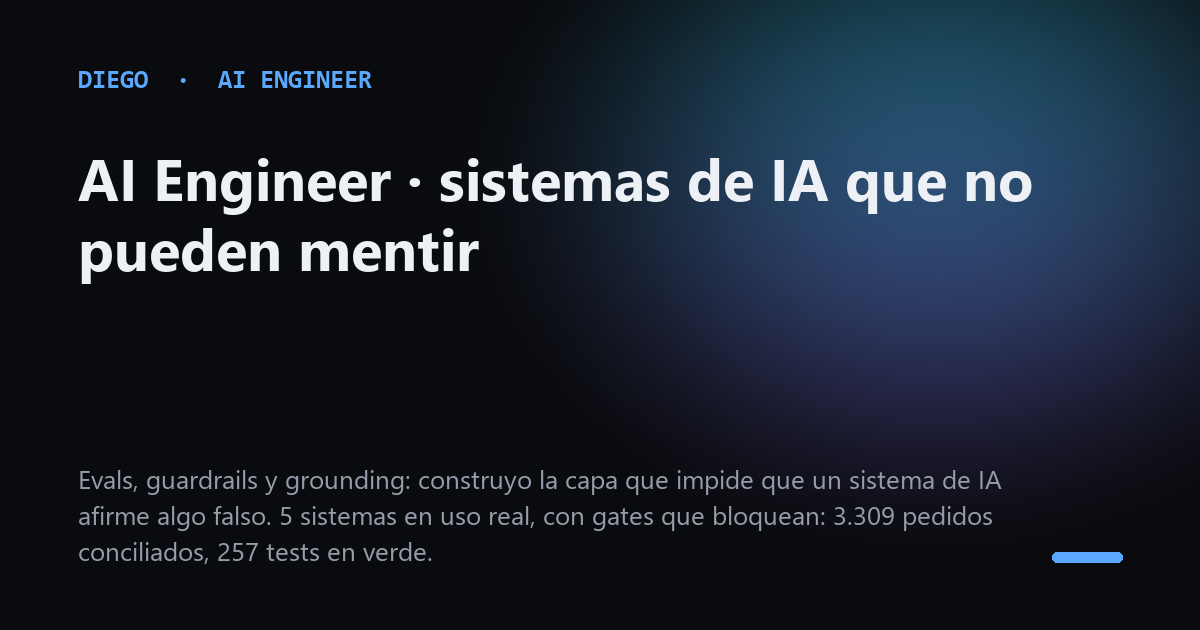
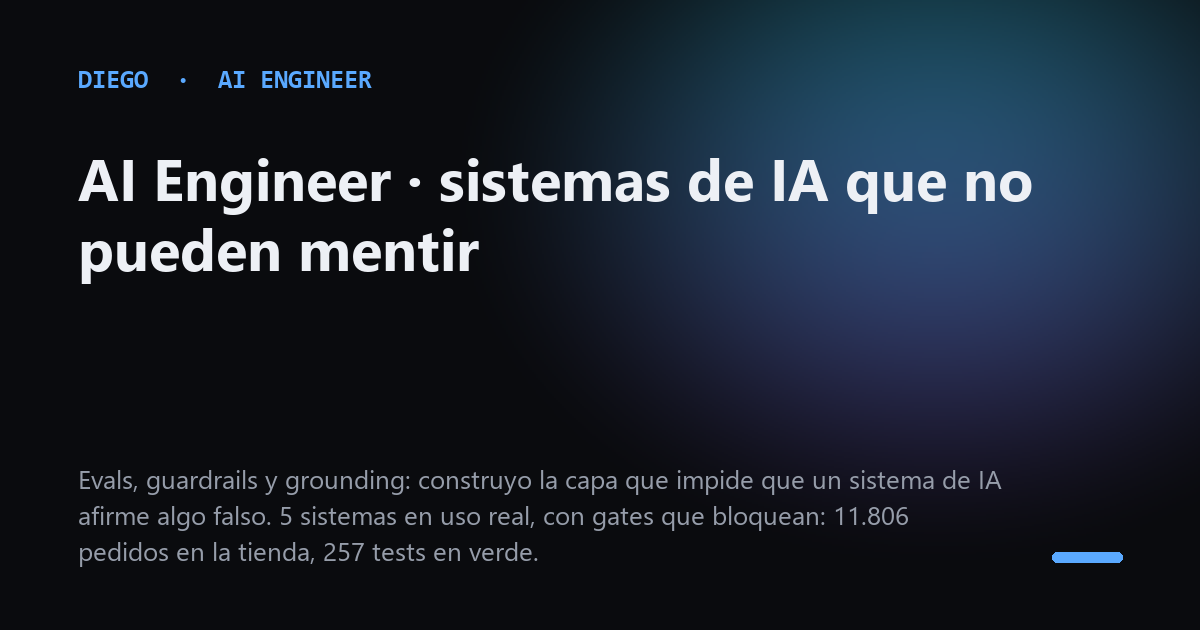
retira el 3.309 sin evidencia, publica 11.806 con captura de Shopify
El `3.309 pedidos conciliados` estaba en el og:description — o sea, era lo
primero que leia un recruiter, antes de abrir la pagina — y en data/claims.md
figuraba como PENDIENTE-DIEGO: "sin rastro en el repo versionado".

Se busco por dos vias independientes y ninguna lo produce: la tabla
`liquidaciones` de data/ecxm.db esta VACIA, y los unicos Excel del disco son
temporales de 3 meses (abril, mayo, junio), no los "6 meses" que la frase decia.

Diego aporto el panel de Shopify de la tienda COD Colombia (1 ene 2025 - 25 ago
2026): Pedidos 11.806 · Ventas netas 1.239.563.133 COP.

NO se sustituye 3.309 por 11.806 en todas partes, a proposito. La unidad que se
verifica es la FRASE ENTERA (truth-loop A.5): 11.806 son pedidos de tienda en 20
meses; 3.309 decia "conciliados" en "6 meses". Son cosas distintas.

  - donde la frase habla de la TIENDA  -> `11.806 pedidos en la tienda`
    (og:description + stat de la tarjeta ECXM)
  - donde habla de la CONCILIACION de ECXM -> la cifra se cae y se queda el
    mecanismo, sin numero: "la utilidad neta conciliada que calcula ECXM sobre
    los pedidos cerrados de cada mes, con gate de igualdad exacta"

Poner 11.806 en el segundo caso habria sido cambiar una cifra sin fuente por una
inflada 3,6x.

Cruce independiente que sostiene el dato (y refuerza las cifras de Meta ya
publicadas): misma tienda, misma ventana, dos sistemas que no se hablan.
  pedidos  Shopify 11.806        vs Meta 10.975 compras   = 93,0%
[…]

Changed region(s): [[0.0617, 0.8444, 0.4625, 0.9048], [0.6783, 0.7841, 0.8325, 0.8444]]

diff --git a/index.html b/index.html
@@ -8,7 +8,7 @@
 <meta name="color-scheme" content="dark">
 <meta name="theme-color" content="#06060a">
 <meta property="og:title" content="Diego · AI Engineer · sistemas de IA que no pueden mentir">
-<meta property="og:description" content="Evals, guardrails y grounding: construyo la capa que impide que un sistema de IA afirme algo falso. 5 sistemas en uso real, con gates que bloquean: 3.309 pedidos conciliados, 257 tests en verde.">
+<meta property="og:description" content="Evals, guardrails y grounding: construyo la capa que impide que un sistema de IA afirme algo falso. 5 sistemas en uso real, con gates que bloquean: 11.806 pedidos en la tienda, 257 tests en verde.">
 <meta property="og:url" content="https://diegotomasllopis.com/">
 <meta property="og:image" content="https://diegotomasllopis.com/assets/og-index.png">
 <meta property="og:image:width" content="1200">
@@ -1313,7 +1313,7 @@ body{overflow:hidden}
       <!-- El "a 13-08" NO es adorno: esta cifra decae a diario (YOUTUBE
            commiteo 7 veces solo hoy) y sin fecha se convierte en falsa
            sola en 48 h. Con fecha es una foto, que es lo que es. -->
-      <div class="stat reveal"><div class="n display grad-text"><span class="ct" data-to="1329"></span></div><div class="l"><span class="t-es">commits en 5 repos a 13-08 · ~5 meses y sin formación previa</span><span class="t-en">commits across 5 repos as of 13-08 · ~5 months, no prior training</span></div></div>
+      <div class="stat reveal"><div class="n display grad-text"><span class="ct" data-to="1424"></span></div><div class="l"><span class="t-es">commits en 5 repos a 25-08 · ~5 meses y sin formación previa</span><span class="t-en">commits across 5 repos as of 25-08 · ~5 months, no prior training</span></div></div>
       <!-- Decia "20 skills propias REUTILIZADAS" y era falso por implicatura:
            solo 4 viven en mas de un repo (run x3, optimize x3, eval x2,
            daily-run x2); las otras 16 estan en uno solo. Un ingeniero lo ve
@@ -1407,7 +1407,7 @@ body{overflow:hidden}
           <span class="t-en">Not Streamlit crashing: it's fluently asserting a false net profit. That figure decides whether a product is a "winner", which shifts the contract split from 50/50 to 40/60. One misattributed decimal is somebody else's pay.</span>
         </div>
         <div class="pj-nums">
-          <span><b>3.309</b> <span class="t-es">pedidos conciliados</span><span class="t-en">orders reconciled</span></span>
+          <span><b>11.806</b> <span class="t-es">pedidos en la tienda</span><span class="t-en">orders in the store</span></span>
           <span><b>6.286</b> <span class="t-es">anuncios indexados</span><span class="t-en">ads indexed</span></span>
           <span><b>3/3</b> <span class="t-es">gates golden en verde</span><span class="t-en">golden gates green</span></span>
         </div>
@@ -1881,8 +1881,8 @@ body{overflow:hidden}
       <div class="pipe"><span>ad testing</span><i>→</i><span>adset testing</span><i>→</i><span>scaling ABO</span><i>→</i><span>scaling ADV</span><i>⊣</i><span class="gate">utilidad neta conciliada</span></div>
       <div class="fail">
         <b><span class="t-es">modo de fallo</span><span class="t-en">failure mode</span></b>
-        <span class="t-es">En COD el ROAS de plataforma <strong>no es el dinero que cobras</strong>: no descuenta la no-entrega ni la devolución. Por eso la cifra con la que decidía no era esta: era la utilidad neta conciliada que calcula ECXM sobre 3.309 pedidos, con gate de igualdad exacta. El número bonito está aquí arriba; el número real pasa por un gate.</span>
-        <span class="t-en">In COD, platform ROAS <strong>isn't the money you collect</strong>: it doesn't net out failed deliveries or returns. So the figure I decided on wasn't this one: it was the reconciled net profit ECXM computes over 3,309 orders, behind an exact-equality gate. The pretty number is up here; the real one goes through a gate.</span>
+        <span class="t-es">En COD el ROAS de plataforma <strong>no es el dinero que cobras</strong>: no descuenta la no-entrega ni la devolución. Por eso la cifra con la que decidía no era esta: era la utilidad neta conciliada que calcula ECXM sobre los pedidos cerrados de cada mes, con gate de igualdad exacta. El número bonito está aquí arriba; el número real pasa por un gate.</span>
+        <span class="t-en">In COD, platform ROAS <strong>isn't the money you collect</strong>: it doesn't net out failed deliveries or returns. So the figure I decided on wasn't this one: it was the reconciled net profit ECXM computes over each month's closed orders, behind an exact-equality gate. The pretty number is up here; the real one goes through a gate.</span>
       </div>
       <div class="pj-nums">
         <span><b>~37.500 €</b> <span class="t-es">gestionados en 15 meses</span><span class="t-en">managed over 15 months</span></span>
@@ -2849,7 +2849,7 @@ var SC=document.getElementById('twBody');
   var LINES=[
     ['booting portfolio.diego · v2 · 13-08', 40],
     ['load  identity ................. <span class="ok">ok</span>', 260],
-    ['mount 5 repos · 1329 commits ... <span class="ok">ok</span>', 200],
+    ['mount 5 repos · 1424 commits ... <span class="ok">ok</span>', 200],
     /* Estas dos dicen lo mismo que decian, con el verbo delante del
        numero. "109 incidents" a secas se lee como 109 fallos mios; lo
        que prueban es que los 109 estan REGISTRADOS, que es justo lo

diff --git a/YOUTUBE-PIPELINE/YOUTUBE-PIPELINE.html b/YOUTUBE-PIPELINE/YOUTUBE-PIPELINE.html
@@ -75,6 +75,14 @@ html.lang-en .t-es{display:none!important}
   font-family:'JetBrains Mono',monospace;color:var(--hl)}
 .eyebrow .grad-text{font-weight:600}
 .eyebrow::before{content:'';width:26px;height:1px;background:var(--grad);opacity:.9}
+/* ── url del repo publico en el hero: la prueba mas barata que existe, porque
+   el lector la puede abrir y contrastar. Solo en las 2 paginas con repo abierto. ── */
+.hero-repo{display:inline-flex;align-items:center;gap:7px;margin-top:14px;font-family:'JetBrains Mono';
+  font-size:.76rem;color:var(--g2);text-decoration:none;border-bottom:1px solid transparent;
+  transition:color .18s,border-color .18s;min-height:44px}
+.hero-repo:hover,.hero-repo:focus-visible{color:var(--text);border-bottom-color:var(--g2)}
+.hero-repo svg{width:12px;height:12px;flex:0 0 auto}
+@media(max-width:560px){.hero-repo{font-size:.7rem;overflow-wrap:anywhere}}
 
 /* ── ambient layers: aurora + grain ── */
 .aurora{position:fixed;inset:-20% -10% auto -10%;height:120vh;z-index:-2;pointer-events:none;filter:blur(70px);opacity:.5}
@@ -859,6 +867,8 @@ body{overflow:hidden}
   <!-- hero -->
   <header class="hero">
     <div class="eyebrow"><span class="t-es">AI Engineer · media pipeline · Python + FFmpeg + LLM</span><span class="t-en">AI Engineer · media pipeline · Python + FFmpeg + LLM</span></div>
+
+    <a class="hero-repo" href="https://github.com/diegollr98-design/video-pipeline" target="_blank" rel="noopener">github.com/diegollr98-design/video-pipeline<svg viewBox="0 0 24 24" fill="none" stroke="currentColor" stroke-width="2.4"><path d="M7 17 17 7M9 7h8v8"/></svg></a>
 
     <h1 class="t-es display">Automaticé un canal entero. Lo difícil fue construir lo que impide que <span class="grad-text">publique basura</span>.</h1>
     <h1 class="t-en display">I automated a whole channel. The hard part was building what stops it from <span class="grad-text">shipping garbage</span>.</h1>

diff --git a/RESELLERMASTER/RESELLERMASTER.html b/RESELLERMASTER/RESELLERMASTER.html
@@ -73,6 +73,14 @@ html.lang-en .t-es{display:none!important}
   font-family:'JetBrains Mono',monospace;color:var(--hl)}
 .eyebrow .grad-text{font-weight:600}
 .eyebrow::before{content:'';width:26px;height:1px;background:var(--grad);opacity:.9}
+/* ── url del repo publico en el hero: la prueba mas barata que existe, porque
+   el lector la puede abrir y contrastar. Solo en las 2 paginas con repo abierto. ── */
+.hero-repo{display:inline-flex;align-items:center;gap:7px;margin-top:14px;font-family:'JetBrains Mono';
+  font-size:.76rem;color:var(--g2);text-decoration:none;border-bottom:1px solid transparent;
+  transition:color .18s,border-color .18s;min-height:44px}
+.hero-repo:hover,.hero-repo:focus-visible{color:var(--text);border-bottom-color:var(--g2)}
+.hero-repo svg{width:12px;height:12px;flex:0 0 auto}
+@media(max-width:560px){.hero-repo{font-size:.7rem;overflow-wrap:anywhere}}
 
 /* ── ambient layers: aurora + grain ── */
 .aurora{position:fixed;inset:-20% -10% auto -10%;height:120vh;z-index:-2;pointer-events:none;filter:blur(70px);opacity:.5}
@@ -797,6 +805,8 @@ body{overflow:hidden}
   <!-- hero -->
   <header class="hero">
     <div class="eyebrow"><span class="t-es">AI Engineer · visión + LLM · reventa de segunda mano</span><span class="t-en">AI Engineer · vision + LLM · second-hand reselling</span></div>
+
+    <a class="hero-repo" href="https://github.com/diegollr98-design/resellermaster" target="_blank" rel="noopener">github.com/diegollr98-design/resellermaster<svg viewBox="0 0 24 24" fill="none" stroke="currentColor" stroke-width="2.4"><path d="M7 17 17 7M9 7h8v8"/></svg></a>
 
     <h1 class="t-es display">Construí el <span class="grad-text">sistema</span> que impide a una IA mentir sobre un producto.</h1>
     <h1 class="t-en display">I built the <span class="grad-text">system</span> that stops an AI from lying about a product.</h1>

diff --git a/ecxm-ops/ECXM-OPS.html b/ecxm-ops/ECXM-OPS.html
@@ -1601,10 +1601,10 @@ document.querySelectorAll('.ct').forEach(function(c){ c.textContent=(c.dataset.p
          m:'Silent autosync to Excel · dynamic ad-account columns · 6 frozen golden cases'}},
     {es:{t:'Cerrar — FINANZAS · MES',c:'$0 · OCR gratuito',
          d:'Limpia el export de Dropi, cruza los fletes reales del wallet, lee las facturas del mes por OCR y atribuye la publicidad campaña a campaña — bajando a nivel de ad set cuando la campaña es un test multi-producto. El resultado es la utilidad neta por producto.',
-         m:'3.309 pedidos en 6 meses · 136 facturas · 209 campañas extraídas · los cobros fallidos no cuentan'},
+         m:'pedidos de 6 meses cerrados · 136 facturas · 209 campañas extraídas · los cobros fallidos no cuentan'},
      en:{t:'Close — FINANCE · MONTH',c:'$0 · free-tier OCR',
          d:'Cleans the Dropi export, cross-matches real shipping costs from the wallet, OCR-reads the month\'s invoices and attributes ad spend campaign by campaign — descending to ad-set level when the campaign is a multi-product test. The output is net profit per product.',
-         m:'3,309 orders across 6 months · 136 invoices · 209 campaigns extracted · failed charges never count'}},
+         m:'orders from 6 closed months · 136 invoices · 209 campaigns extracted · failed charges never count'}},
     {es:{t:'Decidir — ANALYTICS',c:'$0 · motor de reglas',
          d:'Cruza el histórico de cada producto con benchmarks calibrados para COD Colombia y emite recomendaciones accionables por prioridad: % de entrega bajo es un problema logístico, CPA cerca del equilibrio es un problema creativo, conversión baja es un problema de landing.',
          m:'Reglas deterministas, sin LLM · categorías creativo / logística / conversión · URGENTE · NORMAL · SUGERIDO'},
